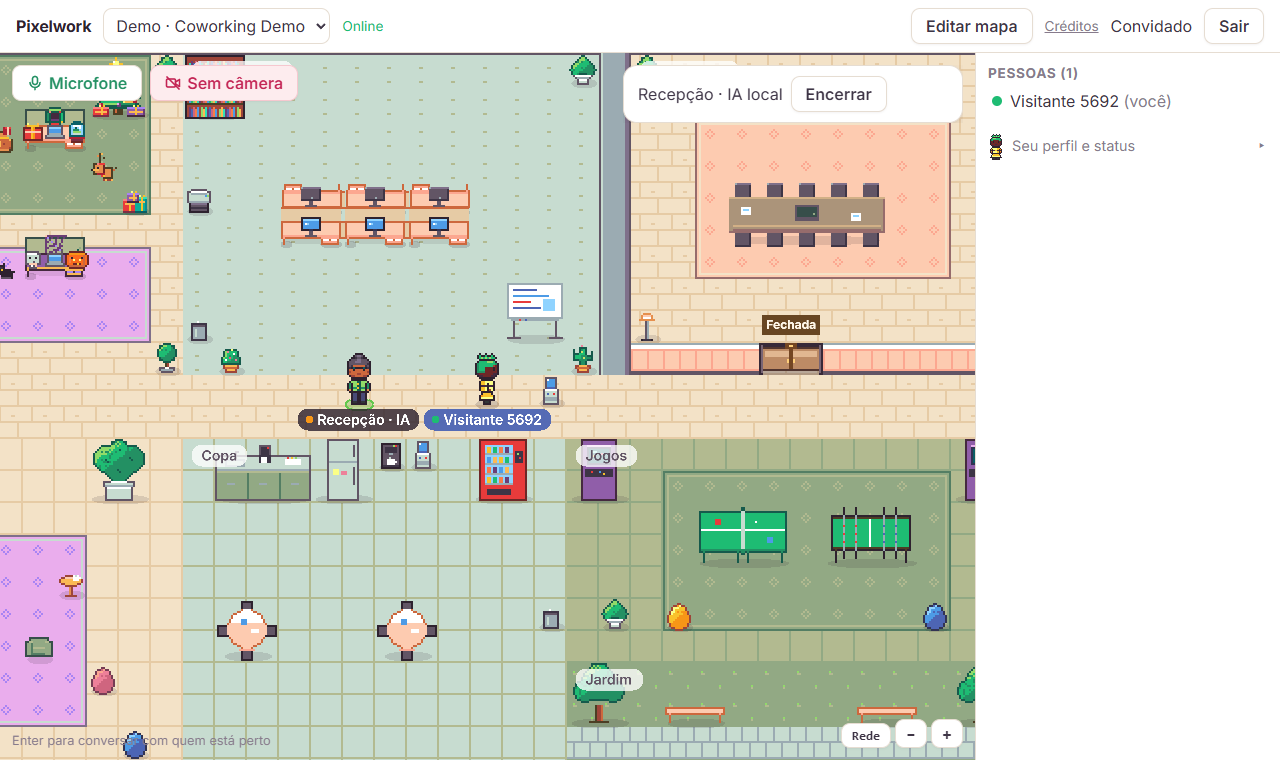
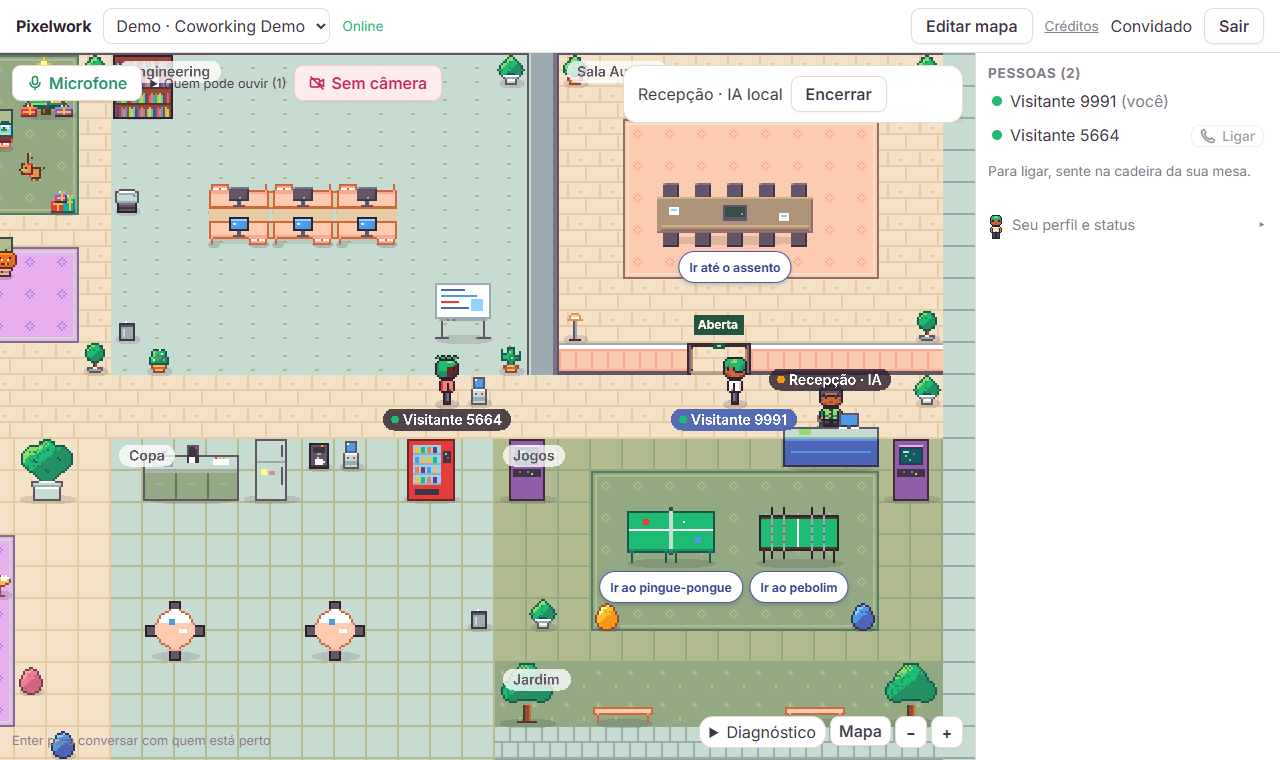
Atualiza o print da recepção no README (#78)

diff --git a/README.md b/README.md
@@ -20,7 +20,7 @@ Coworking virtual em pixel art 2D com voz e vídeo por proximidade, mapas person
 
 ### Atendimento por voz local
 
-![Avatar da Recepção com o indicador de fala no mapa e o painel de atendimento da IA local aberto](docs/prints/recepcao-voz-local.png)
+![Recepcionista sentada atrás do balcão azul na ponta direita do corredor central, com o indicador de fala e o painel de atendimento por voz local aberto](docs/prints/recepcao-voz-local.png)
 
 ### Rota até a sala Aurora
 
